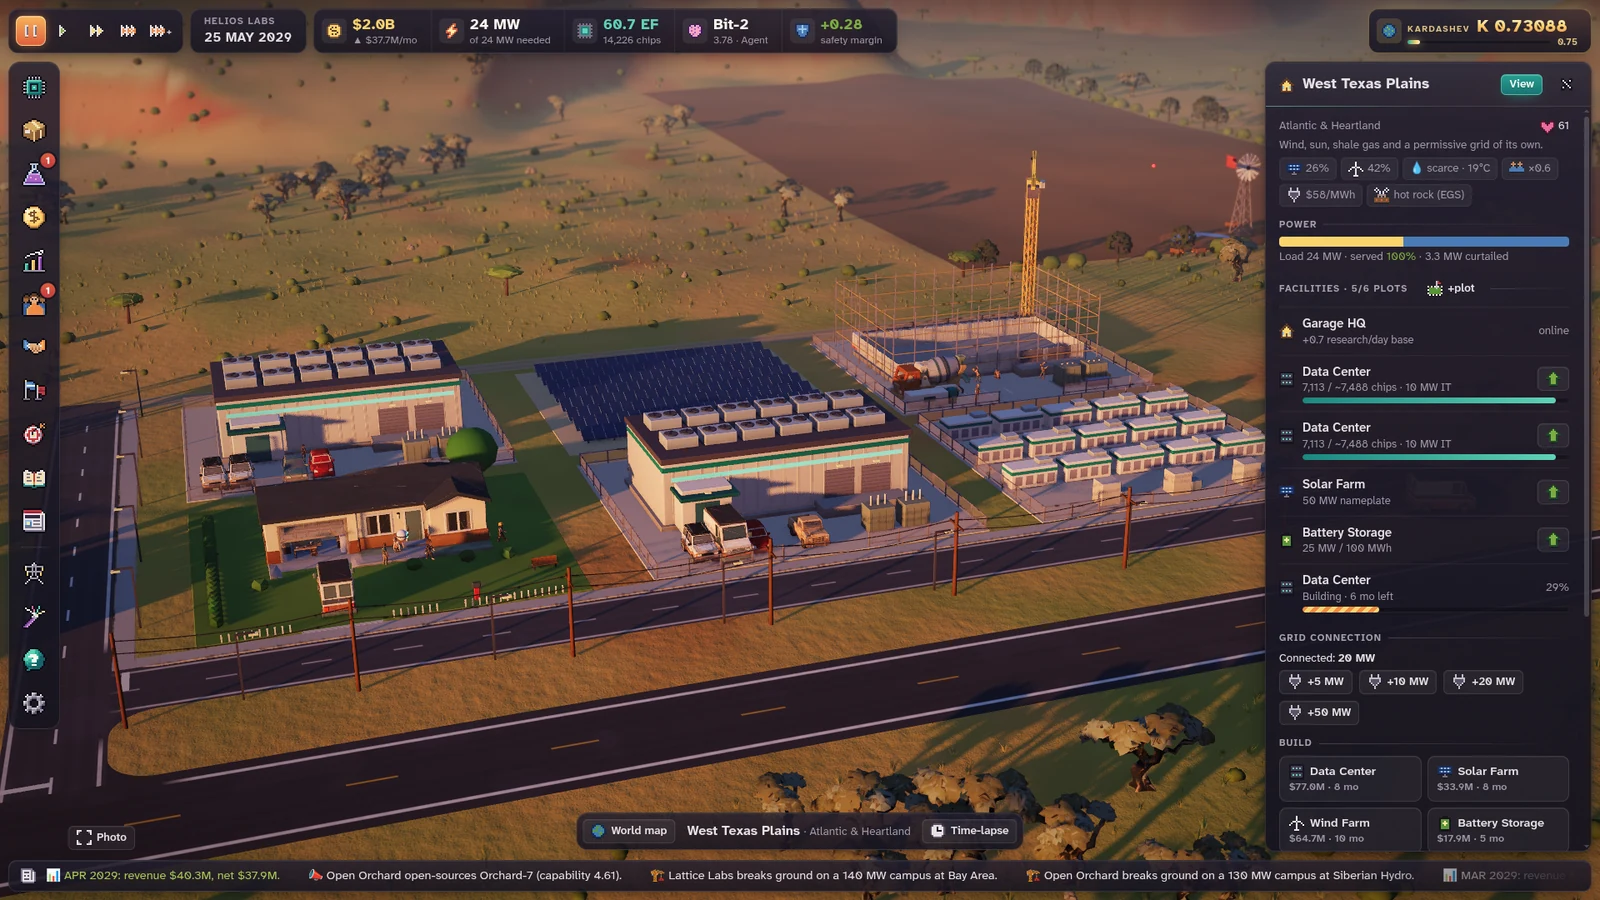
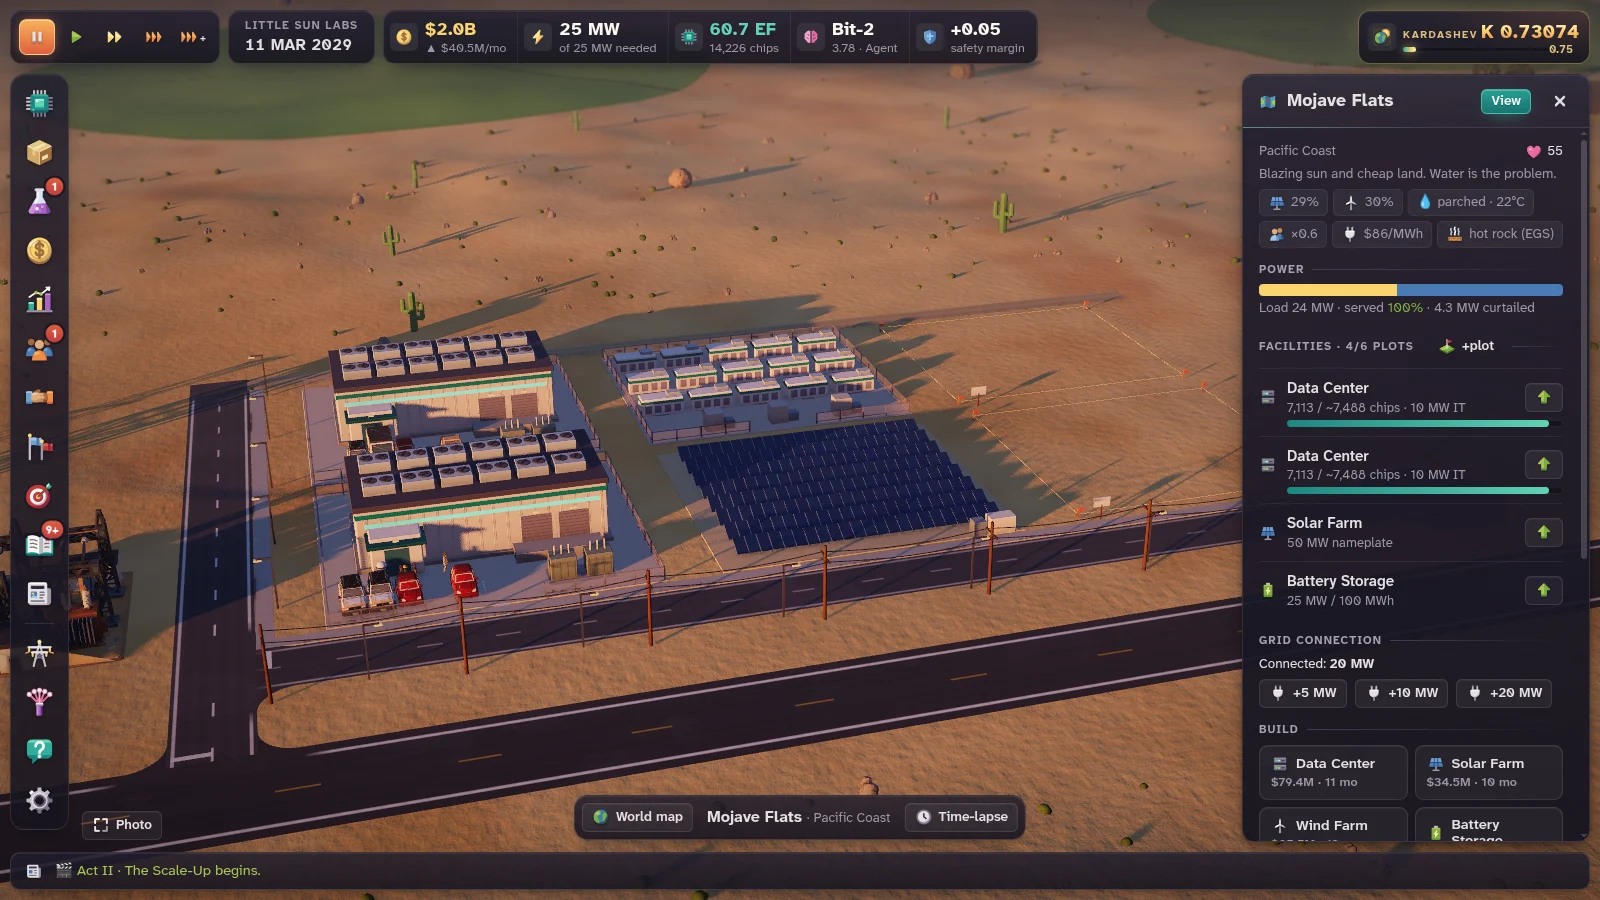
v0.13.0 New Faces: no pixel art, no retro options, a graphics-card switch
- Portraits are live 3D busts (src/render3d/portraits/), icons are hand-drawn SVG (ui/icons.ts,
  dockIcons.ts, medals.ts, iconKit.ts), the logo and the app icon are 3D renders (tools/brand/),
  the Type I end card is a full-HD picture of the ending's scene, home-site previews are relief maps.
- PixelCanvas, the pixel font, globe and terrain drawers and the whole-device-pixel sizing are gone.
- The Classic look, the Pixel text font, the CRT filter and the Chiptune soundtrack are removed.
- Settings -> Display -> Graphics card (src-tauri/src/gpu.rs), with a 20-second trial that undoes itself.
- Docs: CHANGELOG, SPEC section 31, CLAUDE.md, art3d/INTERFACE.md. The website's interface screenshot re-shot.

diff --git a/index.html b/index.html
@@ -102,7 +102,7 @@
 
         <div class="bento">
           <article class="tile tile-wide reveal">
-            <img class="tile-shot" src="./screenshots/ui-campus.webp" loading="lazy" alt="The game in play: a West Texas campus at golden hour with a new data hall going up under a crane, the top bar, the dock and the site panel listing what is built" />
+            <img class="tile-shot" src="./screenshots/ui-campus.webp" loading="lazy" alt="The game in play: a Mojave campus at golden hour with two data halls, a solar farm and batteries beside the road, the top bar with its numbers, the dock of panels on the left and the site panel listing what is built" />
             <div class="tile-body">
               <h3>Real constraints, readable at a glance</h3>
               <p>A data hall really takes the best part of a year, a fab really needs ultrapure water, and the grid queue is real. You watch it rise on site; icons up front, the real units a hover away.</p>

diff --git a/SPEC.md b/SPEC.md
@@ -1,6 +1,6 @@
 # The Kardashev Project — Game Spec v0.1
 
-> **Read section 30 first (2026-11-11):** the game is 3D and desktop only now (Windows, macOS, Linux; Steam is the
+> **Read sections 30 and 31 first (2026-11-11):** the game is 3D and desktop only now (Windows, macOS, Linux; Steam is the
 > goal). The pixel-art edition, the browser game, the installable web app and the Android app described in the
 > sections below were removed; where an older section speaks of pixel dioramas, the pixel map, phones or the PWA, it
 > is history. The sim, the acts and the interface are unchanged.
@@ -2305,3 +2305,67 @@ deployed; Windows and macOS.
 - Redo the logo, the app icon, the portraits and the end card in the 3D style, or keep the pixel art as the game's
   signature?
 - Drop the Chiptune soundtrack, the Classic look and the Pixel font too?
+
+## 31. v0.13.0 "New Faces": no pixel art, no retro options, a graphics-card switch (built and shipped 2026-11-11)
+
+**The decision (the user, 2026-11-11, after v0.12.0):** "change all the remaining pixel art to 3D style, you can use
+my Meshy credits without asking should you need to generate any more models. and drop all the other retro options.
+also build the switch to run the game on the stronger GPU". Later that night: "when you and all the [sub] agents are
+finished, ship it and wrap the session". They had seen none of the new art when it shipped.
+
+**How it was run:** one shared direction (`art3d/INTERFACE.md`), then three helpers in git worktrees on disjoint files
+(portraits, icons, the logo / app icon / end card / site previews) while the lead built the graphics-card switch and
+removed the retro options. The art sizing styles were split into three files first so nobody shared one. All three
+merged with two expected conflicts. No Meshy credits were spent: about 70 characters in five moods and four ages
+can only be made in code.
+
+**What replaced what**
+- **Portraits** (`src/render3d/portraits/`): every face is a 3D bust rendered live from the same look data as the
+  pixel portraits (hair style, skin, clothes, extras, backdrop), with the five moods and the four ages; Bit in each
+  generation; the four AIs as abstract forms. One extra WebGL renderer, 240 px pictures, cached. A new face costs
+  10–50 ms, so past 16 ms in one render pass the rest get a stand-in and are swapped in as they finish; the
+  one-off shader compile (about half a second) is paid behind the loading screen (`warmPortraits`).
+- **Icons** (`src/ui/icons.ts`, `dockIcons.ts`, `medals.ts`, `iconKit.ts`): 123 interface icons, 19 dock icons and
+  four medals, each drawn by hand as SVG in two or three tones of the colour players already know. Contact sheet:
+  `/play/icons.html`.
+- **Logo** (`public/logo.png`, `tools/brand/`): the same composition as an extruded 3D wordmark in Inter Black with
+  the sunrise ramp in seven bands. **App icon**: the game's globe on a dark tile; plainer masters at 64 px and under.
+- **End card** (`src/render/endcard.ts`): 1920×1080, a capture of the ending's scene at its held frame with the
+  run's numbers. **Site previews**: relief maps from the globe's textures.
+- **Removed:** PixelCanvas, the pixel font drawer, the pixel globe, the terrain painter, their preview tests; the
+  whole-device-pixel sizing (`--ps`, `--dpr`, `round()`); the Classic look (`html.ui-classic`, `settings.uiStyle`,
+  `is3d()`), the Pixel font (Pixelify Sans and Silkscreen are no longer shipped), the CRT filter, the Chiptune
+  soundtrack (`audio/chiptune.ts`, `settings.soundtrack`). Old settings migrate.
+
+**The graphics-card switch** (`src-tauri/src/gpu.rs`, `platform.ts`, `GpuNotice`): Settings → Display → Graphics card
+(Automatic / Stronger), shown on Linux when two cards are found, always on Windows, never on macOS. The webview picks
+its card when its processes start, so the choice is a small file read first thing at launch. Choosing Stronger
+restarts the game; the new start is a trial, and only "Keep it" within 20 seconds makes it stick. A start that finds
+an unconfirmed trial reverts to Automatic and says so. Found on the way: on NVIDIA's driver under Wayland, plain PRIME
+offload kills WebKitGTK 2.54 at start (a Wayland protocol error), which is exactly the case the trial exists for;
+turning explicit sync off fixes it, turning WebKit's DMABUF renderer off does not (one frame a second). Measured on
+the dev laptop, a campus at High: 17 frames/s on the Intel card, 30 (the app's cap) on the RTX 4050.
+
+**Calls I made (easy to change)**
+- Dropped the CRT filter along with the three retro options the user had been asked about: it is one too.
+- Kept the `html.edition-3d:not(.ui-classic)` selectors in the styles (always true now): stripping them lowers the
+  rules' weight and could change the look in places nobody would check.
+- Portraits are JPEG at quality 0.95 (three times faster to encode than PNG at this size).
+- The logo's face is seven hard bands, echoing the old logo's stripes (`rampSoft` in tools/brand/logo.ts smooths it).
+- Re-shot the website's one screenshot that shows the interface (`ui-campus.webp`: a Mojave campus at golden hour).
+
+**Weak spots the helpers named** (none blocking)
+- Everyone shares one skull: faces differ by hair, skin, clothes and backdrop more than by features. Fine detail
+  (crow's feet, freckles, the scar) shows at 120 px, not at 40. Chorus is the least readable avatar at 40 px;
+  Bit-0 is dark in the tutorial's first bubble.
+- Icons the author liked least: debris, partner and the dock's handshake, train, sps, mega, dac, desk, foundry, co2.
+- Event cards and goal hints still carry emoji from the content text (🧮, 🔬, ☀, 🌡).
+- `arrow` (a left arrow) is the icon on "Save the picture".
+
+**Checked:** type check; 22 test files (84 tests); both builds; the game in headless Chrome on the RTX (loading
+screen, title, credits, an Act III card, the partners list, a campus, the ending's card) and the website; a debug
+build of the desktop app on WebKitGTK (the logo, the icons and the busts draw; the graphics-card switch end to end:
+Stronger, restart, trial, keep, back to Automatic, a crashed trial undone).
+**Not checked:** Windows and macOS (the icons there, the graphics-card switch on Windows); the AppImage's own WebKit
+with the switch; frame times on the Intel card with the portrait renderer; the trailer kit still shows the old look.
+

diff --git a/CHANGELOG.md b/CHANGELOG.md
@@ -1,5 +1,16 @@
 # Changelog
 
+## 0.13.0 — New Faces (2026-11-11)
+The last of the pixel art is gone: everything in the interface is now drawn to match the 3D world.
+
+- **Everyone has a new face.** The advisors, Bit, every company boss, delegate and governor are little 3D busts now, with their moods (happy, worried, angry, excited) and, in Act V, their age. Bit still changes shape with every model generation, all the way to a free mind.
+- **New icons everywhere.** All 123 interface icons and the dock's buttons are redrawn as smooth, shaded icons in the same colours you already know, sharp at any interface size. Achievement medals too.
+- **A new logo and app icon.** The logo is the same wordmark as a 3D sculpture; the app icon is the game's own Earth.
+- **The Type I end card** is a full-HD picture of your Sun ringed by the swarm, with your run's numbers.
+- **Home-site pictures** on the New company screen are smooth relief maps.
+- **Graphics card (Settings → Display).** On a laptop with two graphics cards the game can now run on the stronger one: better picture and frame rate, more battery. The game restarts to switch and gives you 20 seconds to keep it; if the picture is wrong, it goes back by itself. (Tested on Linux; new on Windows.)
+- **Retro options removed:** the Classic interface look, the Pixel text font, the CRT filter and the Chiptune soundtrack. Old settings carry over to the standard ones.
+
 ## 0.12.0 — All In (2026-11-11)
 One game, in 3D, on your computer. The pixel-art edition and every way of playing outside the desktop app are retired, so all the work goes into the game that is heading for Steam.
 

diff --git a/README.md b/README.md
@@ -6,7 +6,7 @@ compute and supply lines on a real Earth, keep your models safe, and guide civil
 **Get it:** https://thekardashevproject.netlify.app — a desktop game for Windows, macOS and Linux (installers on
 [Releases](https://github.com/L0nE-F0x/The-Kardashev-Project/releases)). A Steam release is planned.
 
-> Status: **v0.12.0 "All In"**. The whole campaign is playable end to end: Acts I (The Garage), II (The Scale-Up),
+> Status: **v0.13.0 "New Faces"**. The whole campaign is playable end to end: Acts I (The Garage), II (The Scale-Up),
 > III (The Charter), IV (Planetary) and V (Type I). See `SPEC.md` for the design and `CHANGELOG.md` for what changed.
 
 ## Run it locally
